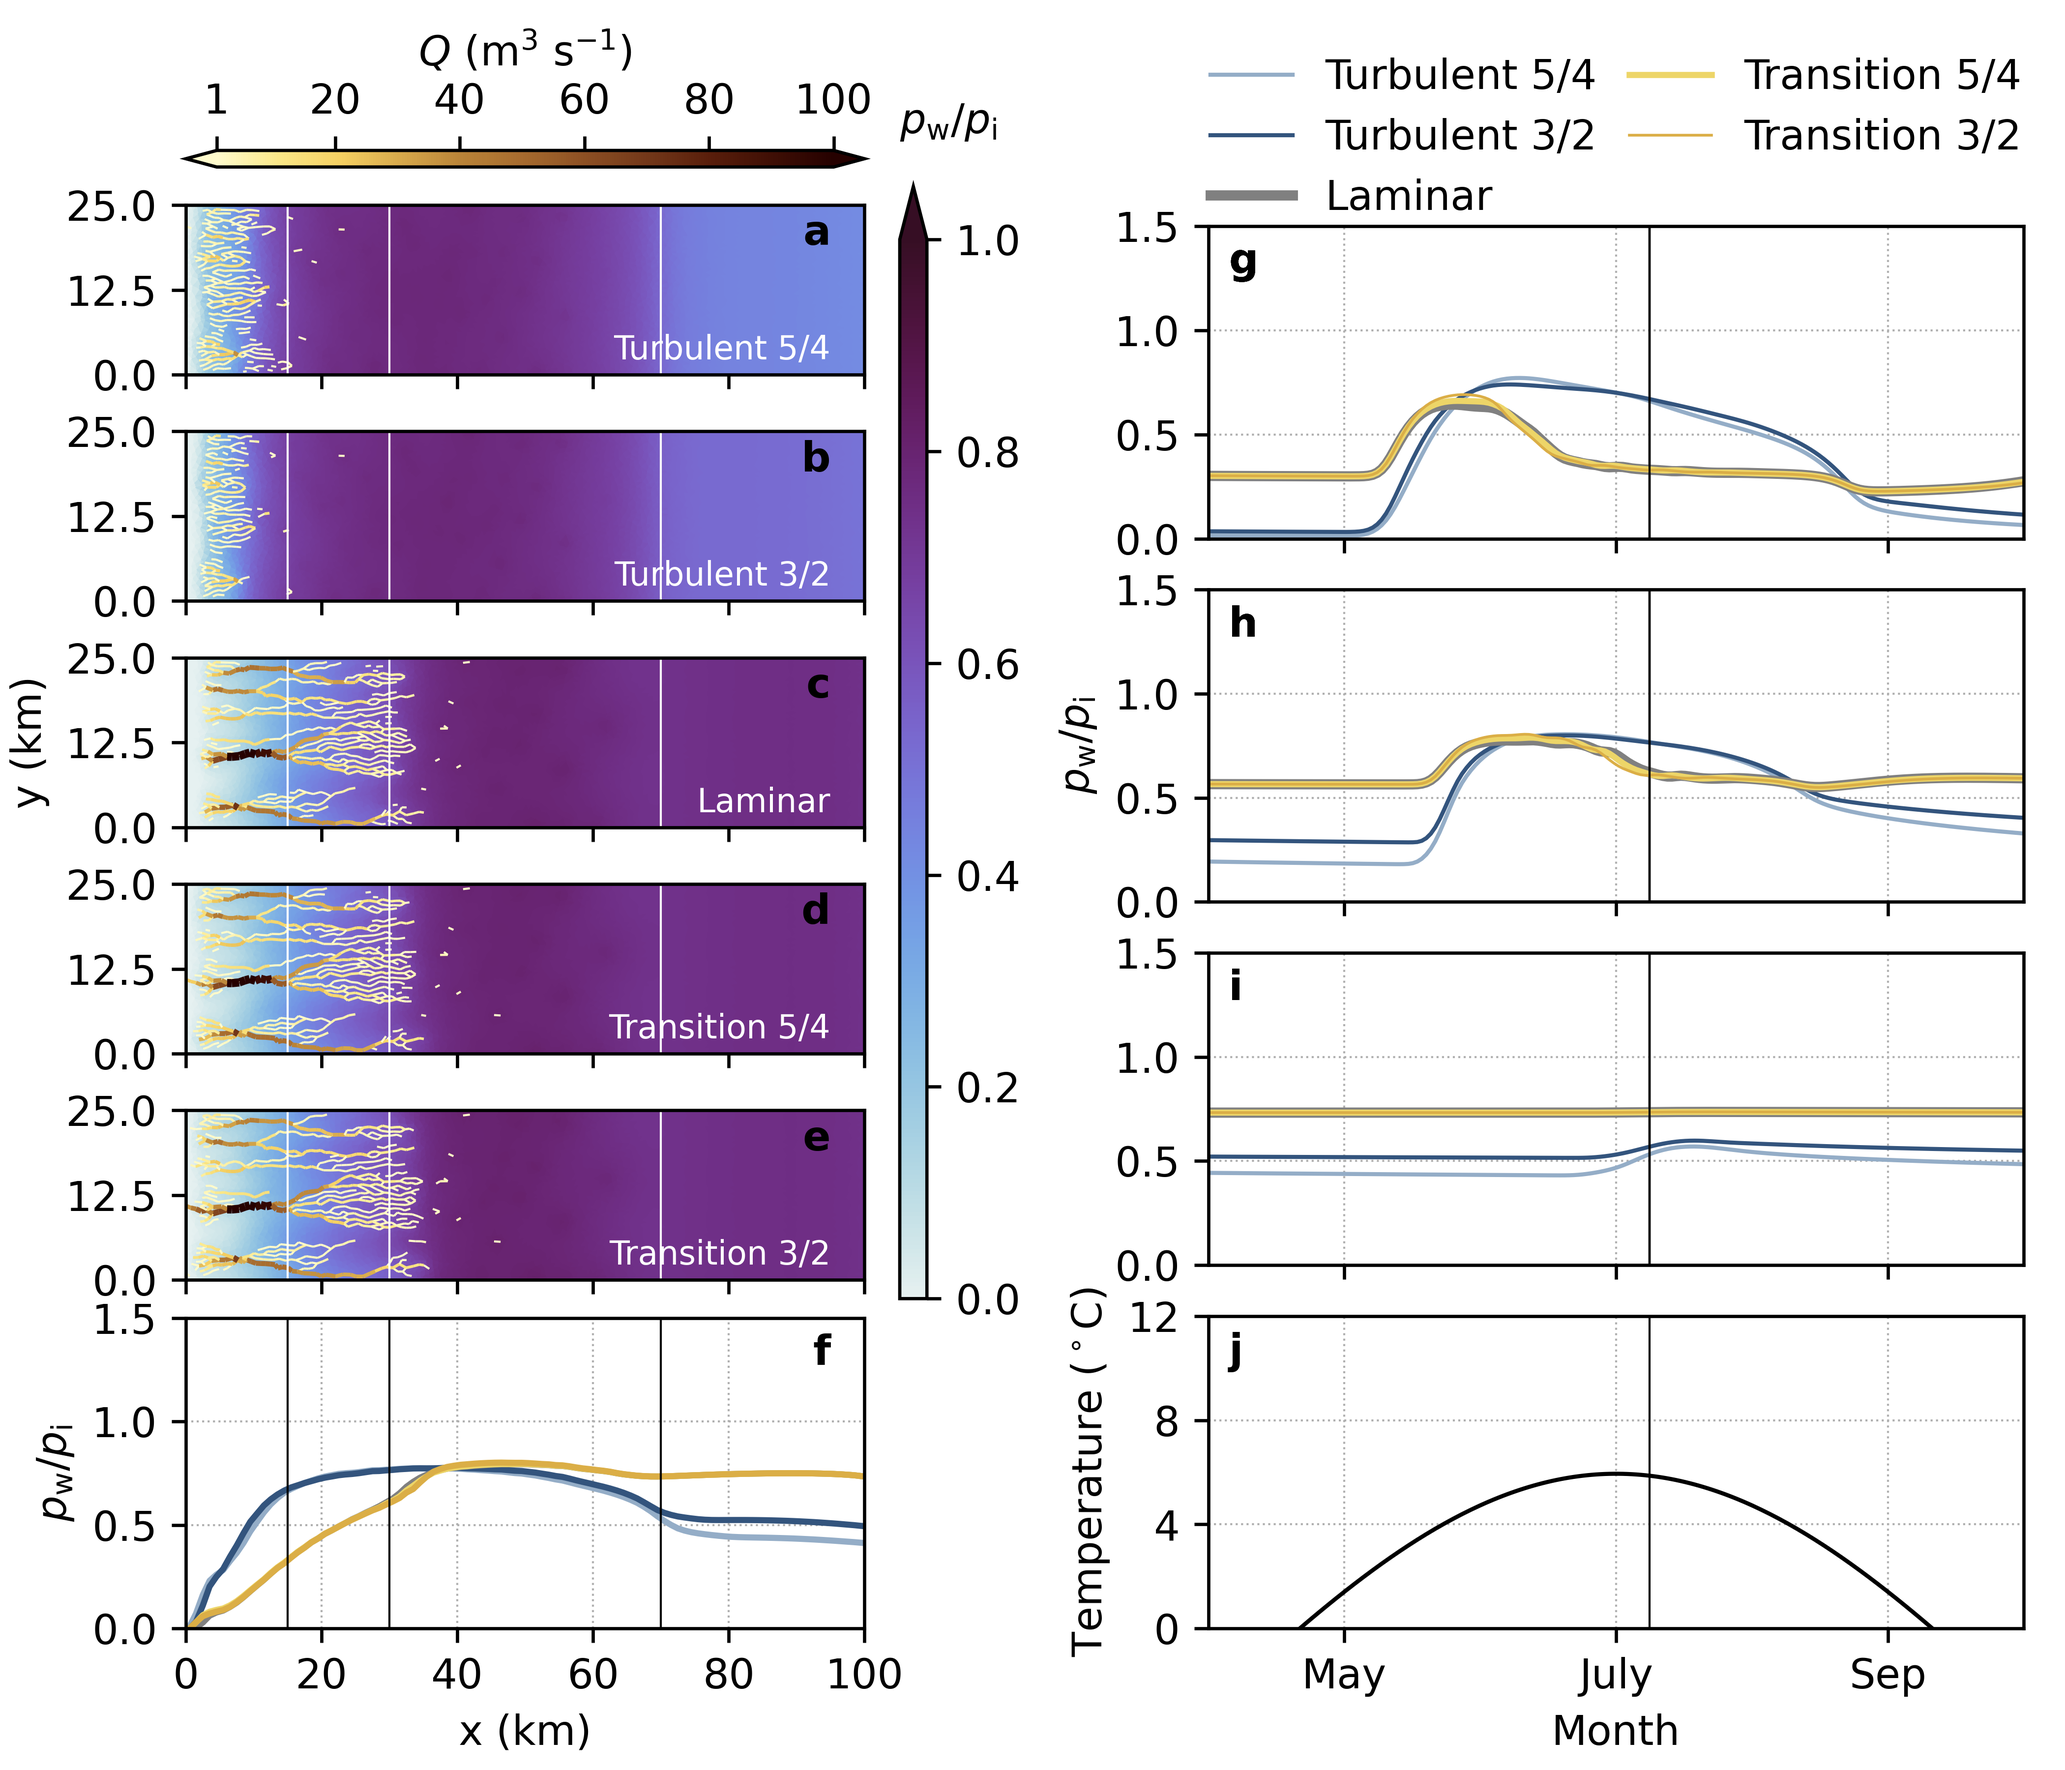
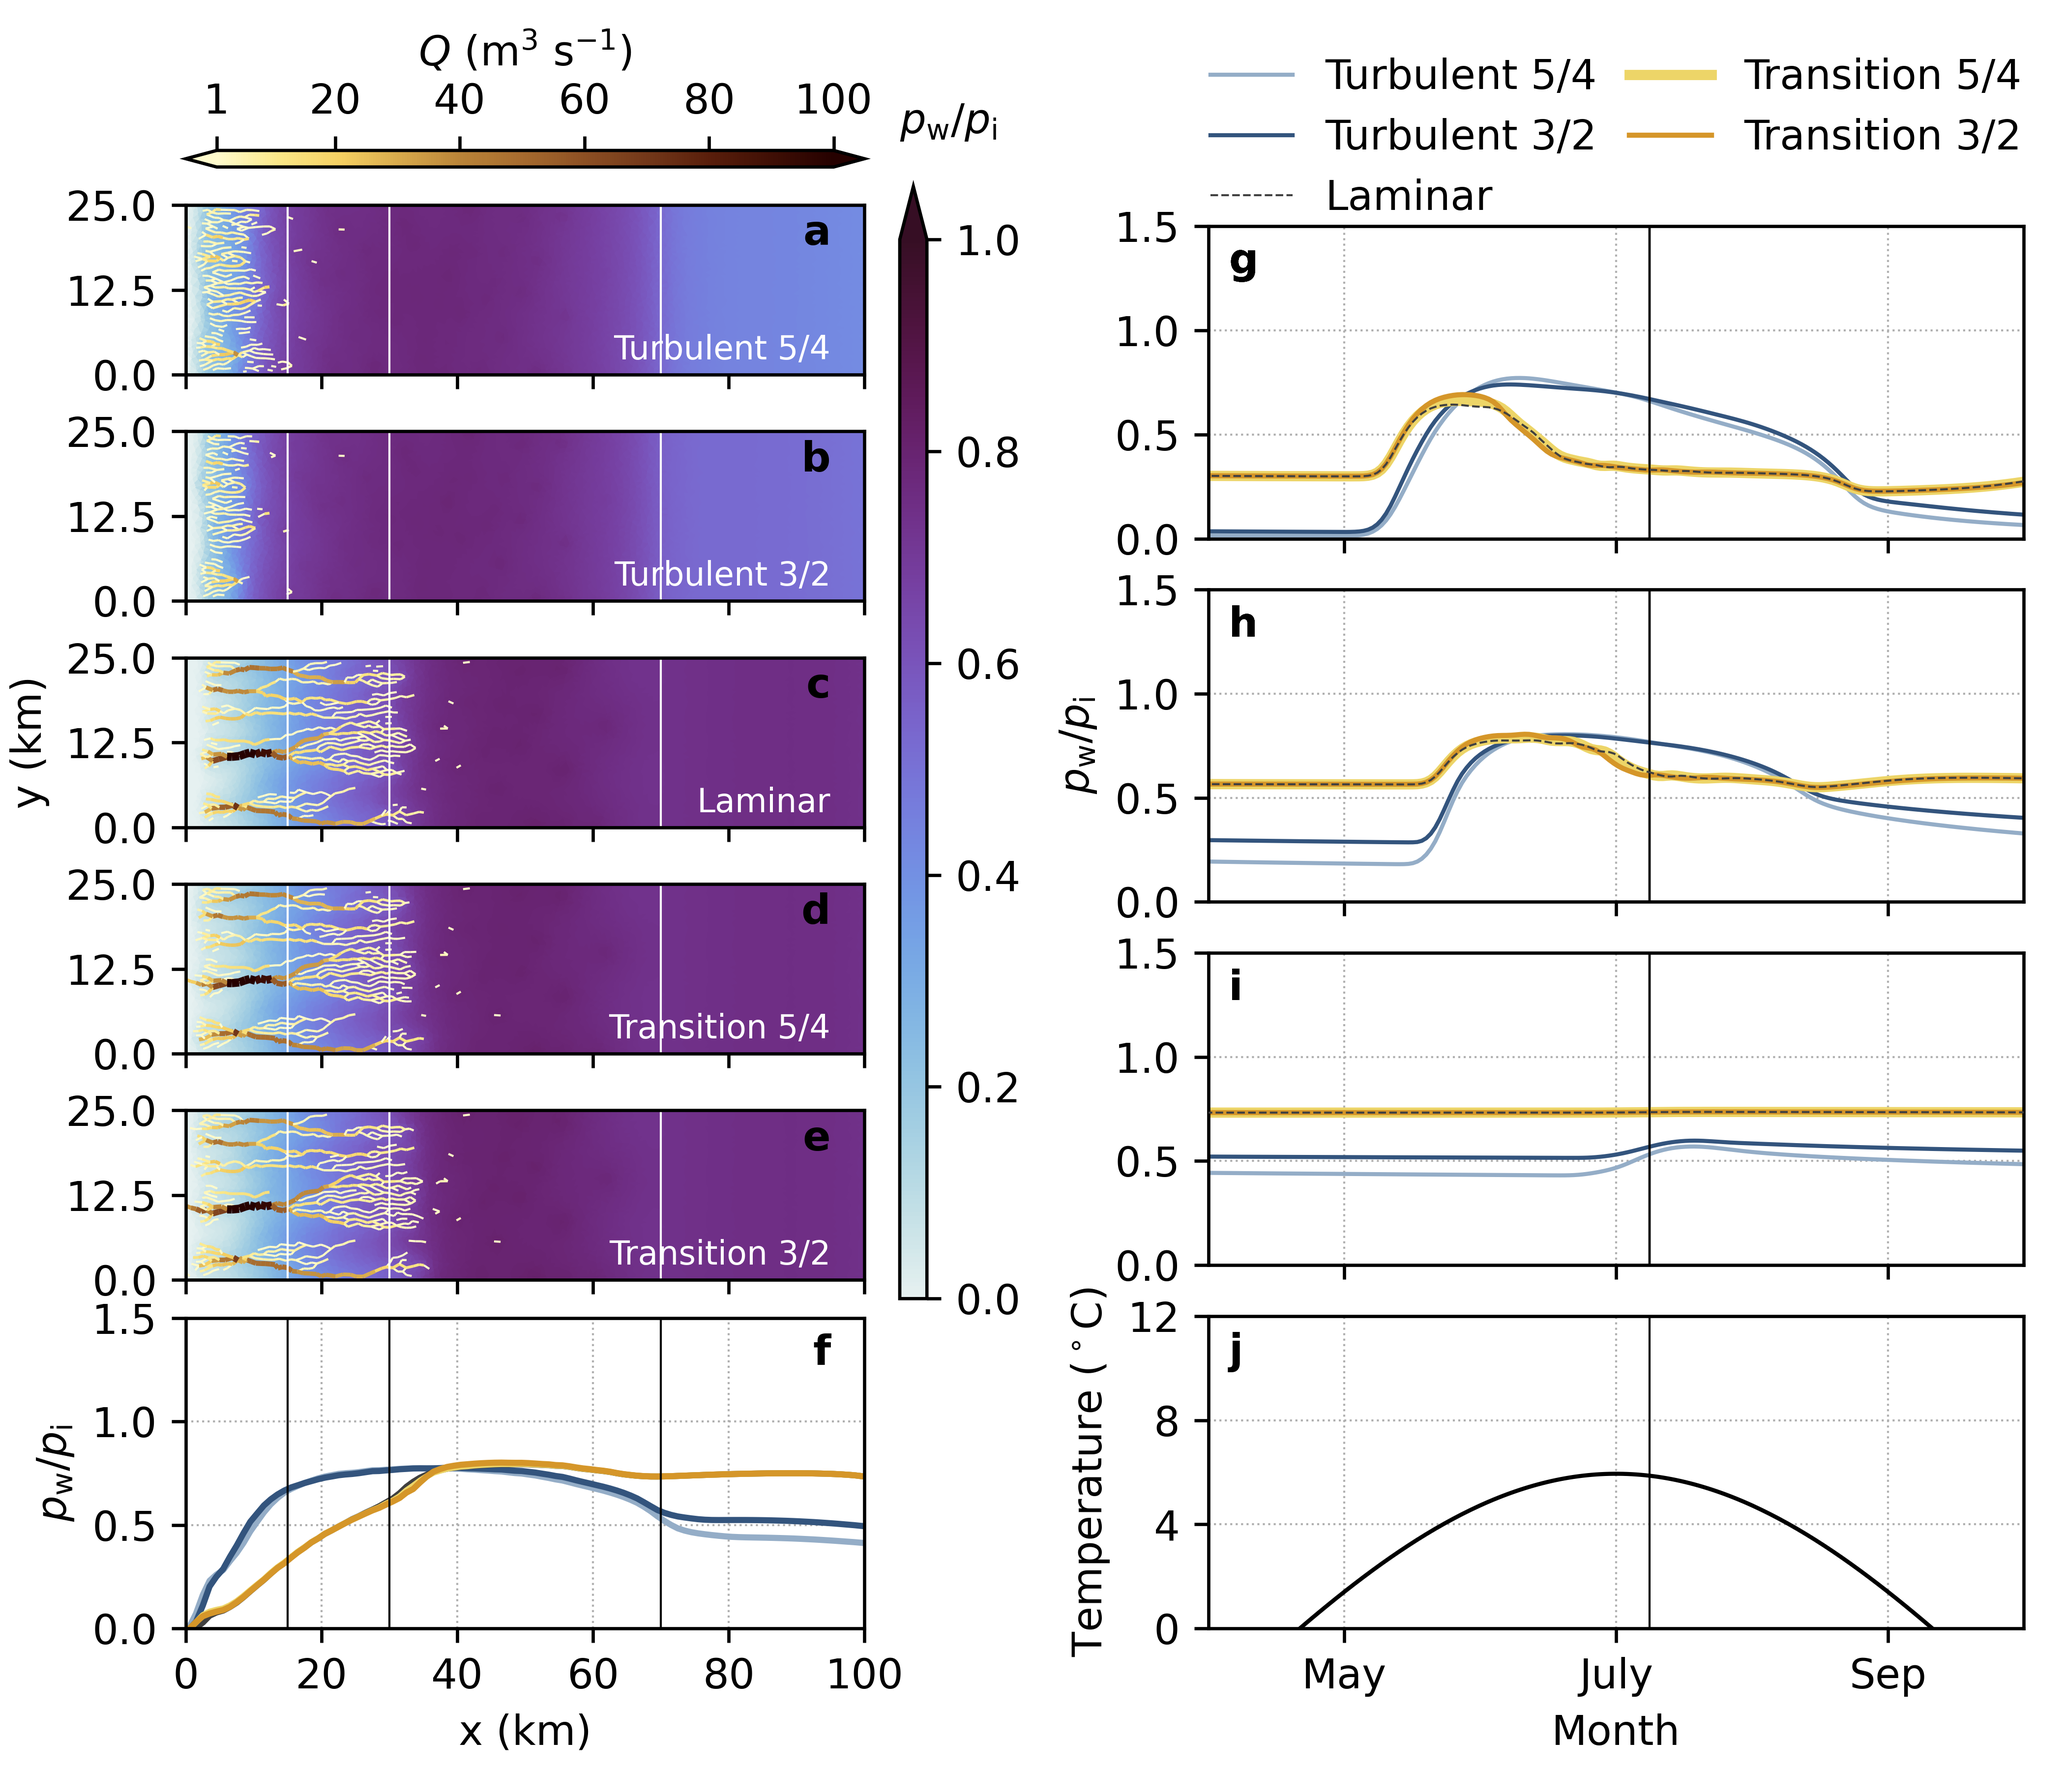
Figure timeslices

diff --git a/analysis/plot_pressure_maps_separate_timeseries.py b/analysis/plot_pressure_maps_separate_timeseries.py
@@ -152,9 +152,12 @@ def plot_pressure_maps_timeseries(fnames, figname, tslice=defaults.tslice,
     time_alphabet = ['g', 'h', 'i', 'j']
     map_alphabet = ['a', 'b', 'c', 'd', 'e', 'f']
     text_args = {'fontweight':'bold'}
-    lws = [1, 1, 2.5, 1.5, 2/3]
+    lws = [1, 1, 0.5, 2.5, 1.25]
+    zorders = [2, 2, 3, 2, 2]
     jitter = [0, 0, 0, 0, 0]
-
+    colors[2] = [0.25, 0.25, 0.25, 1]
+    colors[-1] = np.array([214, 151, 41, 256])/256
+    linestyles = ['solid', 'solid', 'dashed', 'solid', 'solid']
     # Start reading the data
     for ii in range(n_cases):
         fname = fnames[ii]
@@ -239,7 +242,9 @@ def plot_pressure_maps_timeseries(fnames, figname, tslice=defaults.tslice,
             if fill_between:
                 timeax.fill_between(tt, f_lower, f_upper, facecolor=colors[ii], alpha=0.3)
 
-            timeax.plot(tt, f_mean + jitter[ii], label=labels[ii], color=colors[ii], linewidth=lws[ii])
+            timeax.plot(tt, f_mean + jitter[ii], label=labels[ii],
+                color=colors[ii], linewidth=lws[ii], zorder=zorders[ii],
+                linestyle=linestyles[ii])
 
             mapax.axvline(xb, color='w', linewidth=0.5)
             timeax.axvline(tslice/365, color='k', linewidth=0.5)
@@ -337,4 +342,4 @@ if __name__=='__main__':
         t_ticklabels=t_ticklabels, t_xlabel=t_xlabel, t_ticks=t_ticks, t_lim=t_lim,
         ff_ylim=[0, 1.75], ff_yticks=[0, 0.5, 1, 1.5])
 
-    plt.show()
+#    plt.show()

diff --git a/analysis/make_Re.py b/analysis/make_Re.py
@@ -22,7 +22,16 @@ figname = '00_Re_seasonal.png'
 fig_00 = plot_Re(fnames, figname, Qmin=1, Qmax=100, Re_ylim=(0, 4e3), tslice=530)
 
 plt.show()
+"""
 
+## Case 00a: Flat topo, SHMIP forcing
+cases = [1, 2, 3, 4, 5]
+fnames = ['../glads/00a_shmip_forcing/RUN/output_%03d_seasonal.nc'%caseid for caseid in cases]
+figname = '00a_Re_seasonal_SHMIP_day510.png'
+fig_00 = plot_Re(fnames, figname, Qmin=10, Qmax=200, Re_ylim=(0, 8e3), tslice=510)
+
+
+"""
 ## Case 00a: Flat topo, SHMIP forcing
 cases = [1, 2, 3, 4, 5]
 fnames = ['../glads/00a_shmip_forcing/RUN/output_%03d_seasonal.nc'%caseid for caseid in cases]
@@ -77,13 +86,13 @@ pattern = '../glads/03b_kan_forcing_valley/RUN/output_%03d_seasonal.nc'
 fnames = [pattern % caseid for caseid in cases]
 figname = '03b_Re_seasonal_valley.png'
 fig_03 = plot_Re(fnames, figname, Qmin=1, Re_ylim=(0, 4e3))
-"""
 ## Case S01b: Parameter sensitivity
 cases = [1, 2, 3, 4, 5]
 pattern = '../glads/S01b_parameter_sensitivity/RUN/output_%03d_seasonal.nc'
 fnames = [pattern % caseid for caseid in cases]
 figname = 'S01b_Re_parameter.png'
 fig_S01 = plot_Re(fnames, figname, Qmin=1, Re_ylim=(0, 4e3), tslice=365+174)
+"""
 
 plt.show()
 
